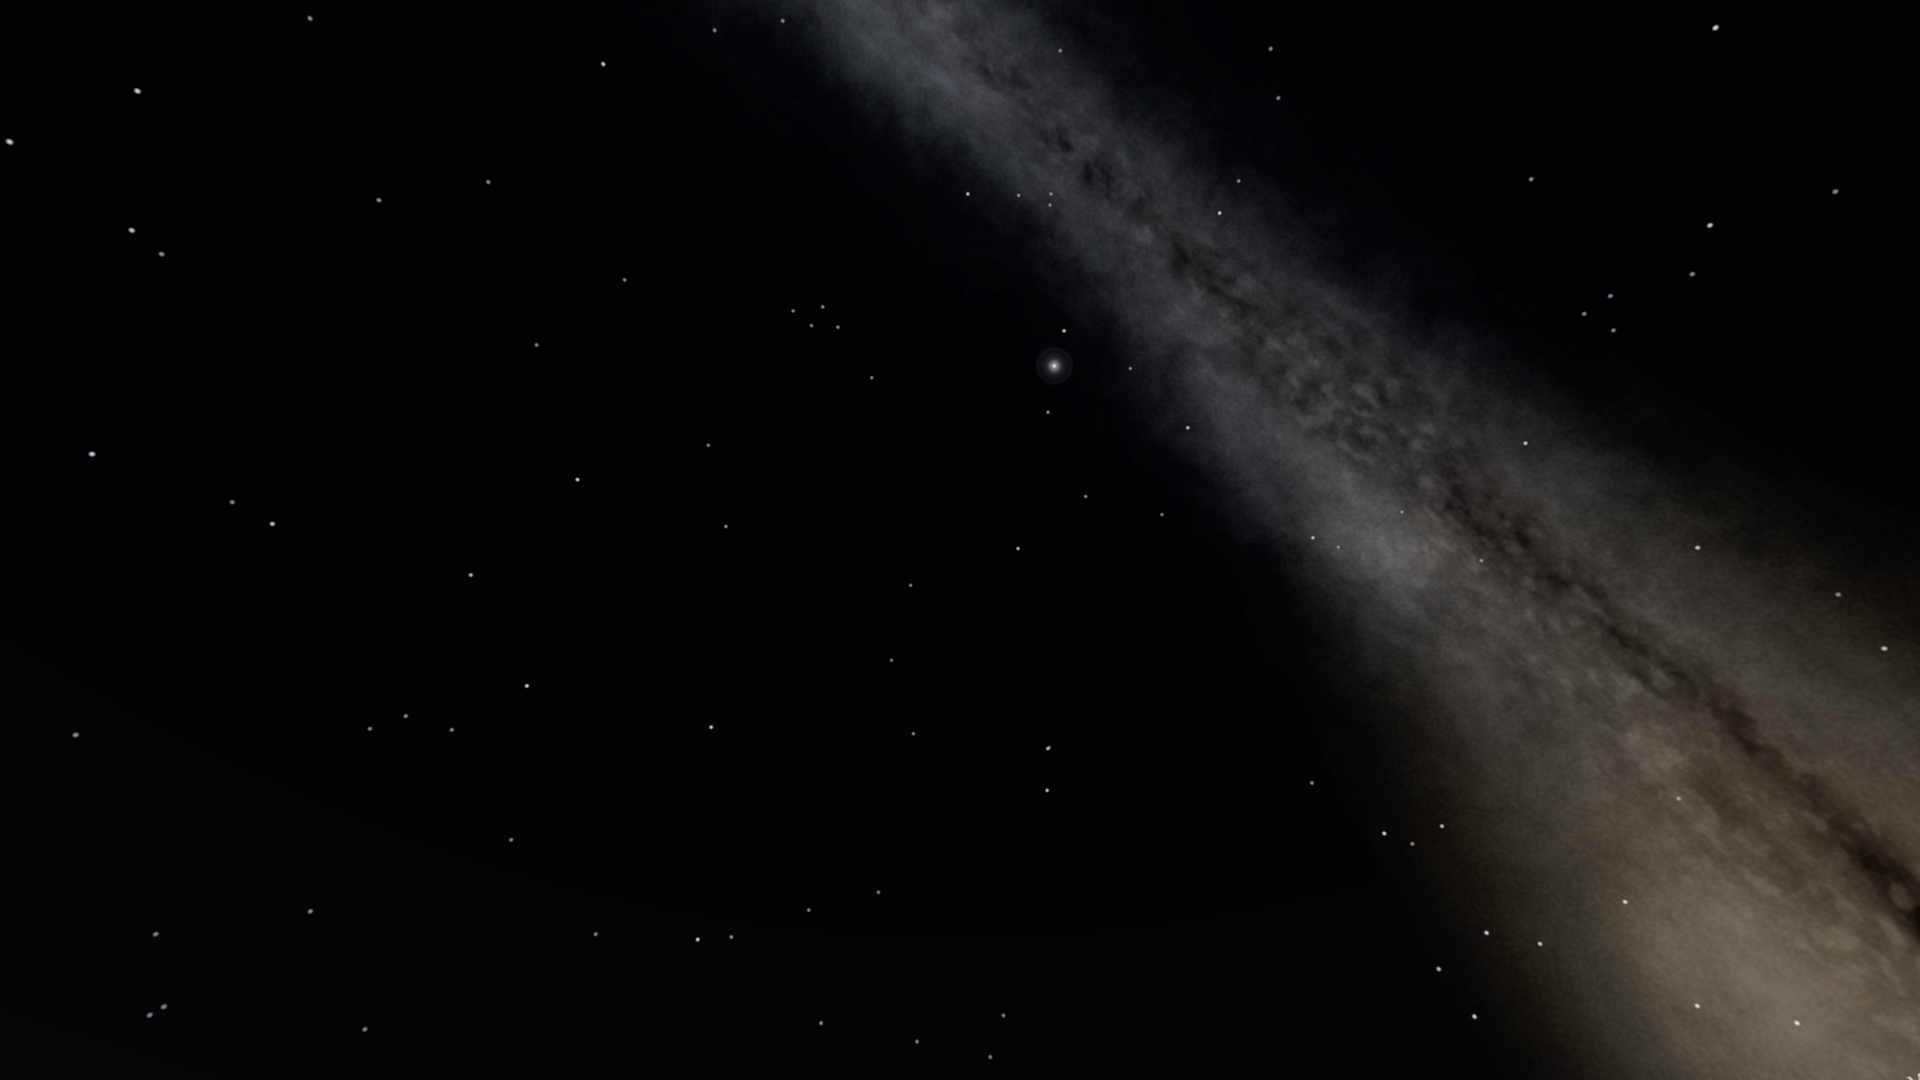
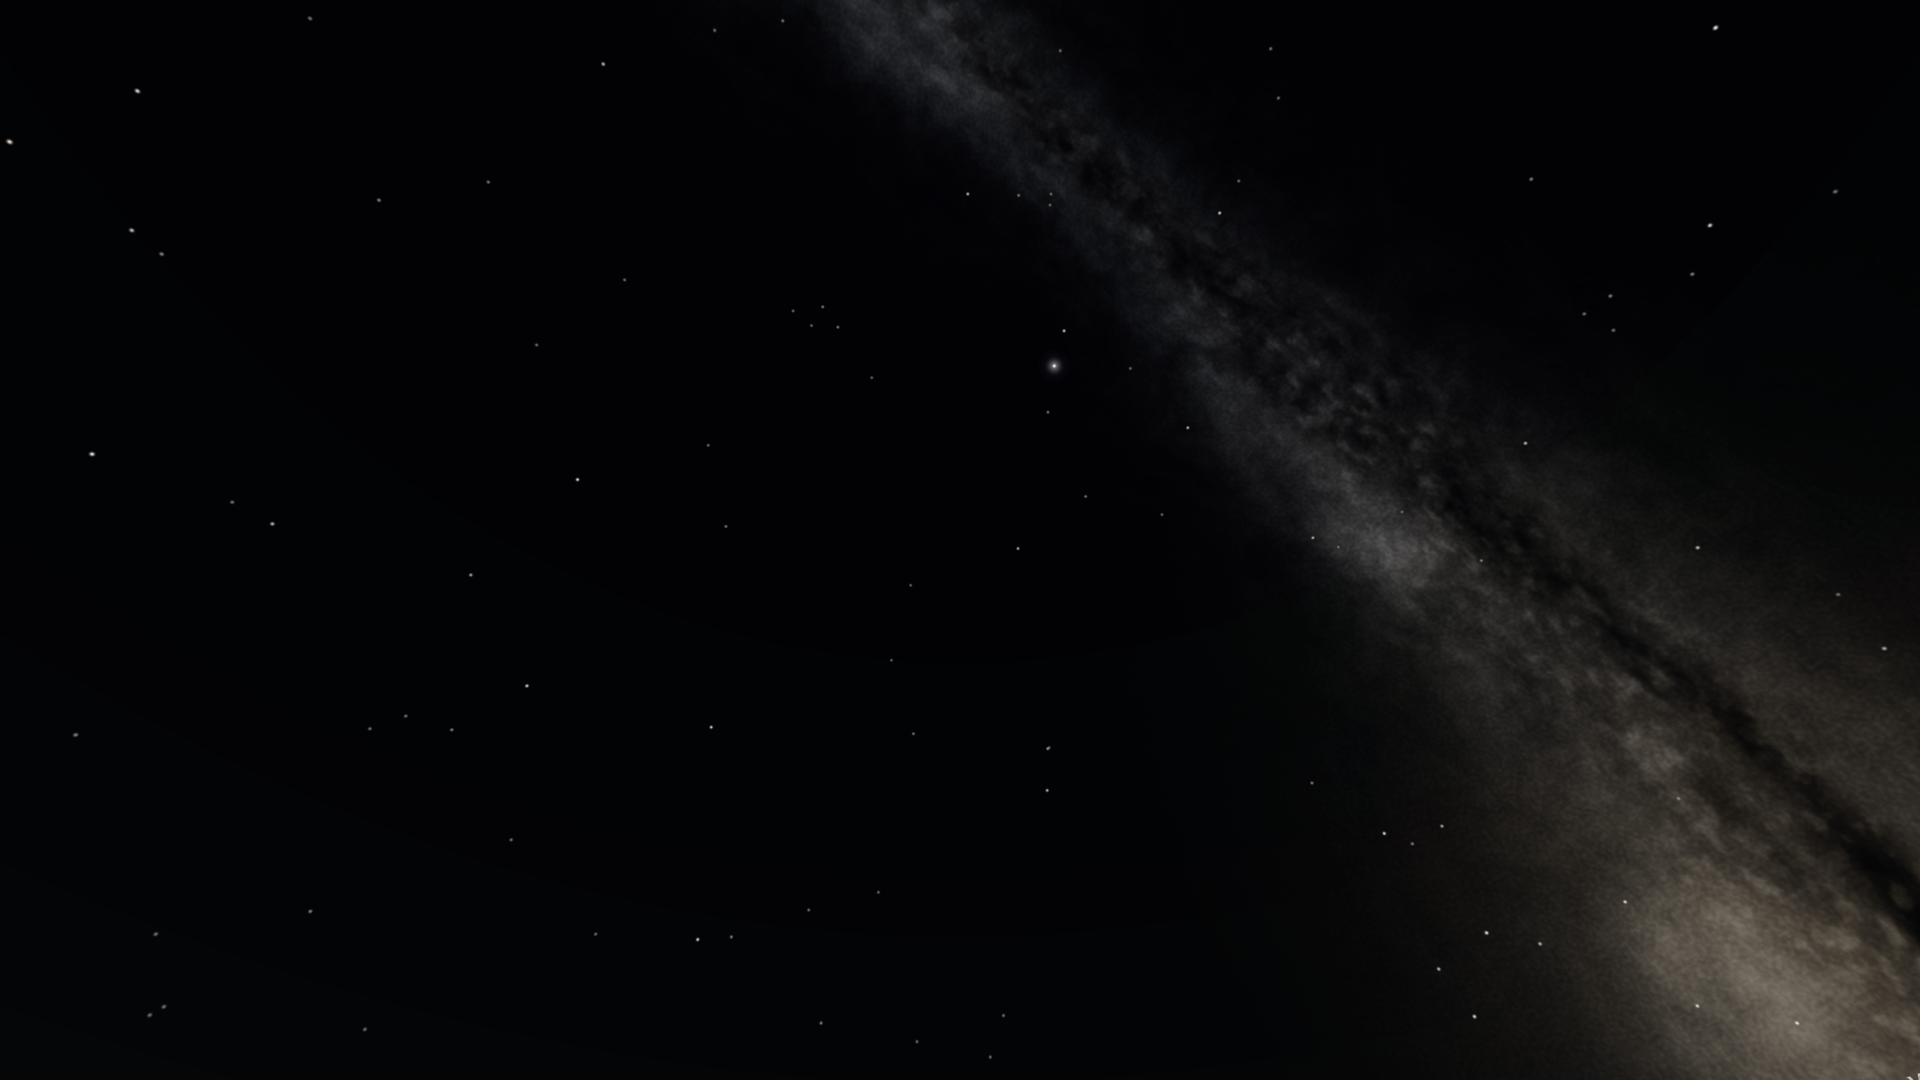
Vision Pro polish: remove the Milky Way's hard edge
Additive textures were uploaded with alpha equal to brightness and un-premultiplied
by RealityKit, so faint glow became bright and stopped where alpha rounded to zero.
Textures are now opaque; the band spans ±30° with a 12° fade and a broader bulge glow.

Changed region(s): [[0.4062, 0.0, 1.0, 0.9472]]

diff --git a/NyxVision/Sky/SkyTextures.swift b/NyxVision/Sky/SkyTextures.swift
@@ -30,7 +30,7 @@ nonisolated enum SkyTextures {
     }
     static func look(row: Int) -> StarLook {
         let m = magnitude(row: row)
-        let flux = 0.24*pow(10, -0.4*0.6*(m-4.25))
+        let flux = 0.34*pow(10, -0.4*0.6*(m-4.25))
         let excess = max(0, flux-1)
         return StarLook(peak: min(1, flux), core: 0.036*(1+0.3*log2(1+excess)),
                         halo: excess > 0 ? 0.1*min(1, excess)+0.035*excess : 0, haloWidth: 0.1+0.05*excess,
@@ -78,7 +78,8 @@ nonisolated enum SkyTextures {
             let dx = (Double(x)+0.5)/Double(size)-0.5, dy = (Double(y)+0.5)/Double(size)-0.5
             let r = sqrt(dx*dx+dy*dy)*2
             let intensity = (exp(-pow(r/core, 2)) + 0.25*exp(-pow(r/0.5, 2)))*smooth((1-r)/0.3)
-            return (color*min(1, intensity), min(1, intensity))
+            // Opaque: added as light, and a faint alpha would be un-premultiplied into a bright pixel.
+            return (color*min(1, intensity), 1)
         }
     }
     /// Moonlight scattered in the air around the Moon: bright close in, a long faint skirt.
@@ -87,7 +88,7 @@ nonisolated enum SkyTextures {
             let dx = (Double(x)+0.5)/Double(size)-0.5, dy = (Double(y)+0.5)/Double(size)-0.5
             let r = sqrt(dx*dx+dy*dy)*2
             let intensity = (0.85/(1+pow(r/0.05, 2)) + 0.15*exp(-pow(r/0.45, 2)))*smooth((1-r)/0.35)
-            return (SIMD3(repeating: intensity), intensity)
+            return (SIMD3(repeating: intensity), 1)
         }
     }
 
@@ -96,8 +97,9 @@ nonisolated enum SkyTextures {
     /// The Milky Way's texture (drawn by `nyxMilkyWay` in SkyShaders.metal), equirectangular in
     /// galactic coordinates: u is longitude from the anticentre (u = 0.5 is the core, so the seam
     /// falls where the band is faintest and every noise wraps exactly at 360°), v is latitude from
-    /// −20° (the image's bottom row) to +20°. 0.088° per pixel along the band, 0.078° across it.
-    static let milkyWayWidth = 4096, milkyWayHeight = 512, milkyWayLatitude = 20.0
+    /// −30° (the image's bottom row) to +30°, fading to nothing over its outer 12°. 0.088° per pixel
+    /// along the band, 0.078° across it.
+    static let milkyWayWidth = 4096, milkyWayHeight = 768, milkyWayLatitude = 30.0
 
     // MARK: The sky's colour
 

diff --git a/NyxVision/Sky/SkyScene.swift b/NyxVision/Sky/SkyScene.swift
@@ -155,7 +155,7 @@ import UIKit
         // The Milky Way: true darkness only, washed out by moonlight in proportion to its glare (a
         // quarter Moon high takes about half of it, a full Moon nearly all) and by the park's glow.
         let washed = 1-0.97*Self.smooth(glare/0.4)
-        let milkyWayLight = 0.3*SkyDome.visibility(.milkyWay, sunAltitude: moment.sunAltitude)*washed*dark*boost
+        let milkyWayLight = 0.4*SkyDome.visibility(.milkyWay, sunAltitude: moment.sunAltitude)*washed*dark*boost
         tint(milkyWay, texture: milkyWayTexture, level: Self.srgb(milkyWayLight), color: Self.ink(palette))
 
         // The skyline, seeded by the park (built before its colour is set below).
@@ -413,10 +413,11 @@ import UIKit
         descriptor.primitives = .triangles(indices)
         return try MeshResource.generate(from: [descriptor])
     }
-    /// The band between galactic latitudes −20° and +20°, all the way round.
+    /// The band between galactic latitudes −30° and +30°, all the way round: wide enough that the
+    /// bulge's glow has faded to nothing well inside it.
     static func milkyWayMesh() throws -> MeshResource {
         var positions: [SIMD3<Float>] = [], uvs: [SIMD2<Float>] = [], indices: [UInt32] = []
-        let columns = 240, rows = 20, latitude = SkyTextures.milkyWayLatitude
+        let columns = 240, rows = 30, latitude = SkyTextures.milkyWayLatitude
         for i in 0...columns {
             for j in 0...rows {
                 let l = (Double(i)/Double(columns)+0.5)*2*Double.pi, b = (-latitude+2*latitude*Double(j)/Double(rows))*Double.pi/180

diff --git a/PHASE_STATUS.md b/PHASE_STATUS.md
@@ -4,7 +4,8 @@ Branch `vision-polish`; only `NyxVision/` changed. Logged under "Vision Pro poli
 
 - **Done:** near-black night with faint airglow and Bortle glow; twilight colours, Earth's shadow and Belt of Venus from the Sun's real altitude; moonlight as glare (blue sky, aureole, Milky Way and faint stars washed out in proportion); GPU-drawn Milky Way model (`SkyShaders.metal`, 4096×512, warm core, star clouds, Great Rift and dust lanes); star atlas with a perceptual brightness curve, glare and blackbody colours; seeded two-range skyline (labelled illustrative) with compass letters on the land; label depth fix; Reduce Transparency in window and sky cards.
 - **Verified:** NyxVision builds with zero warnings (Debug, visionOS simulator). Captures on "Nyx Vision Pro" (visionOS 27): `Research/Screenshots/vision-polish-core-july.png`, `-core-overhead`, `-moonlit`, `-twilight`, `-belt-of-venus`, `-night-vision` (compare `vision-sky-*` from before). iOS suite not run (no shared file changed).
-- **Known issues:** at the simulator's field of view the bulge's southern edge reads a little column-like at b ≈ −12°; on device (≈3× the pixel density) the 0.088°/px texture is softer than the stars. A second, higher-resolution texture for the summer core is the next step if it shows. No scintillation (by decision).
+- **Review fix:** the Milky Way's hard edge (faint alpha un-premultiplied on texture upload) is gone: additive textures are opaque, the band is ±30° with a 12° fade. Core, overhead, moonlit and night-vision captures retaken.
+- **Known issues:** on device (≈3× the pixel density) the 0.088°/px texture is softer than the stars. A second, higher-resolution texture for the summer core is the next step if it shows. No scintillation (by decision).
 - **Next:** try on a device for brightness calibration (the levels were tuned on simulator captures); consider a core-region detail texture.
 
 # Nyx handoff — 2026-10-06 (roadmap: every sky — the cost of light, step-free spots)

diff --git a/DECISIONS.md b/DECISIONS.md
@@ -335,5 +335,6 @@ The immersive sky, on branch `vision-polish` (only `NyxVision/` changed). Before
 - **Skyline:** two seeded ranges (`SkyTextures.skyline`, per park, every 0.5°), the far one taking a third of the horizon's colour as haze; nearer than the stars, so the Moon and stars rise from behind it. Illustrative, and the plaque now says "the skyline is illustrative". Compass letters sit on the land just below it, dimmer (0.5; 0.95 with Increase Contrast).
 - **Night vision** keeps the natural-colour textures and tints the materials red (no texture rebuild on toggle); dome and land go through the palette's red mapping. Labels no longer write depth, which had cut a dark box out of the Milky Way behind "Milky Way core".
 - **Reduce Transparency** (`VisionPalette.solid`): the window's gradient and fact cards become nearly opaque, sky name cards near-opaque (also under Increase Contrast).
+- **Review fix (integrator): a hard edge along the Milky Way.** Cause: the additive textures carried alpha equal to their brightness, and RealityKit un-premultiplies a texture on upload, so every faint pixel became a bright one and the glow stopped dead where its 8-bit alpha rounded to zero (a test pattern put the edge exactly on the band's ±20° mesh boundary). The Milky Way, star atlas, glow and aureole textures are now opaque (additive light ignores alpha), the band is ±30° (4096×768) fading to nothing over its outer 12°, and the bulge has a broad, faint outer glow instead of a plateau, which also removed the column look. Star and Milky Way levels were re-set for the true (dimmer) profiles.
 - **Iteration without the simulator:** the textures and the sky colour were tuned with a Mac harness that compiles `SkyShaders.metal` and `SkyTextures.swift` and composites the sky for a park and moment; the simulator (load-gated) was used for the final captures only.
 
